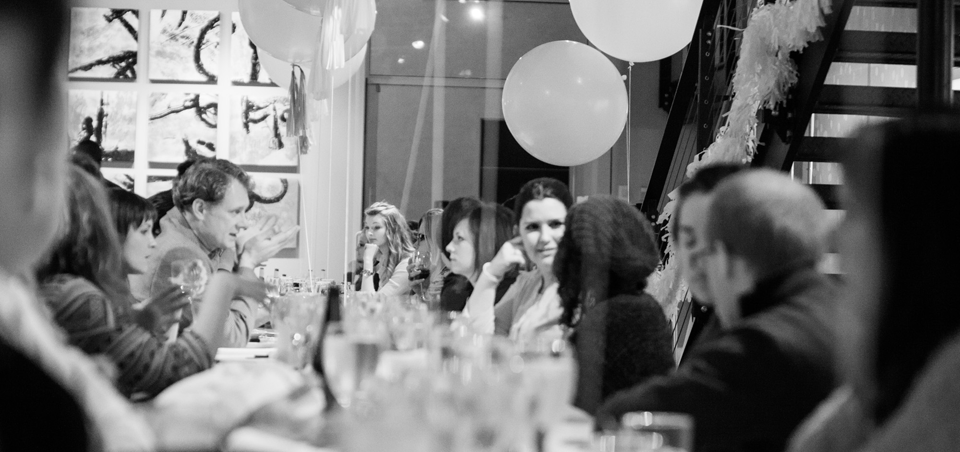
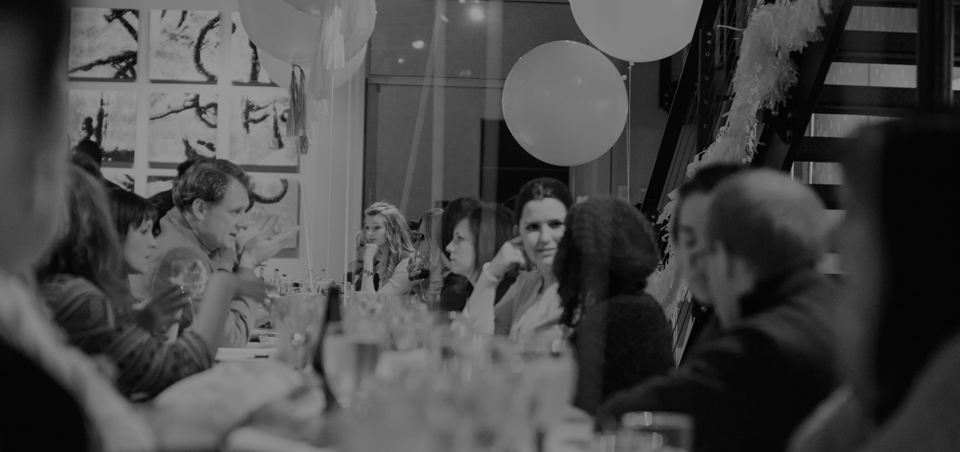
Tweaking final stuff, adding in the slideshow

diff --git a/styles/styles.css b/styles/styles.css
@@ -776,15 +776,18 @@ nav a:hover {
 
 
 .craft-header h1 {
-	font-size: 76px;
-	line-height: 1.0em;
-	padding: 37px;
+	font-size: 50px;
+	line-height: 1.2em;
+	padding: 65px;
+	padding-top: 56px;
 	margin: 0;
 	margin-right: 100%;
-	width: 50%;
-	color: #fff;
-	text-shadow: 0px 0px 12px rgba(0,0,0,0.3), 0px 1px 2px rgba(0,0,0,0.6);
+	width: 31%;
+	color: #FFFFFF;
 	display: inline-block;
+	font-family: "HelveticaNeue-Light", "Helvetica Neue Light", "Helvetica Neue", Helvetica, Arial, "Lucida Grande", sans-serif;
+	font-weight: lighter;
+
 }
 
 .craft-button {
@@ -847,22 +850,68 @@ nav a:hover {
 }*/
 
 .slideshow {
-	background: url(../images/slider/DSC_0178.jpg) #fff no-repeat;
-	height: 360px;
+	height: 450px;
 	display: inline-block;
+	position:relative; 
+	background-color: #fff;
 }
 
-.intro {
+.caption {
+	padding: 17px 38px;
+	text-align: center;
+}
+
+.fadein { 
+	width:360px; 
+	height:360px; 
+}
+
+.fadein img { 
+	-webkit-filter: grayscale(1);
+	position:absolute; 
+	left:0; 
+	top:0; 
+/*	-webkit-transition: all 0.3s ease;
+	   -moz-transition: all 0.3s ease;
+	    -ms-transition: all 0.3s ease;
+	     -o-transition: all 0.3s ease;
+	        transition: all 0.3s ease;*/
+}
+
+.fadein img:hover {
+	-webkit-filter: grayscale(0.5);
+	-webkit-transition: all 0.3s ease-in-out;
+	   -moz-transition: all 0.3s ease-in-out;
+	    -ms-transition: all 0.3s ease-in-out;
+	     -o-transition: all 0.3s ease-in-out;
+	        transition: all 0.3s ease-in-out;
+}
+
+
+.about .intro {
 	color: #4FC0A6;
 	font-size: 21px;
 	line-height: 1.4em;
-	padding: 0px 0 0 0;
+	padding: 65px;
 	font-weight: normal;
+}
+
+.about .intro a {
+	text-decoration: none;
+	color: #12705A;
+}
+
+.about .intro p {
+	color: #4FC0A6;
+	font-size: 16px;
+	line-height: 1.5em;
+	margin-bottom: 20px;
+	font-family: "Helvetica Neue", Helvetica, Arial, sans-serif;
+
 }
 
 .about {
 	background-color: #fff;
-	height: 814px;
 	display: inline-block;
 }
 
@@ -878,17 +927,15 @@ nav a:hover {
 }
 
 .about h1 {
+	color: #4F8A7C;
 	font-weight: bold;
-	font-size: 55px;
+	font-size: 30px;
 	line-height: normal;
-	color: #B98D14;
-	text-align: center;	
-	margin: 10px 0 -10px 0;
+	margin-bottom: 5px;
+	margin: 0;
 }
 
 .about h2 {
-	color: #B98D14;
-	text-align: center;	
 	font-size: 40px;
 	font-weight: lighter;
 	margin-bottom: 10px;
@@ -896,10 +943,6 @@ nav a:hover {
 
 .about p {
 	margin: 5px 0 0 0;
-	padding: 0 50px;
-	color: #92772C;
-/*	font-size: 14px;
-*/	text-align: center;
 	line-height: 1.4em;
 }
 
@@ -978,13 +1021,14 @@ nav a:hover {
 }
 
 .bottom {
-	height: 200px;
+	height: 160px;
 	width: 100%;
-	margin: 10px 0 0px 0;
+	margin: 40px 0 0px 0;
 	position: relative;
 }
 
 .bottom img {
+	display: inline-block;
 	position: absolute;
 	bottom: 0;
 	left: -3px;
@@ -992,13 +1036,35 @@ nav a:hover {
 
 .bottom a {
 	opacity: 1;
+	text-decoration: none;
+	display: inline-block;
+	color: #fff;
+	font-family: "Helvetica Neue", Helvetica, Arial, sans-serif;
 }
+
+.bottom a:hover {
+	opacity: 0.7; 
+}
+
+.bottom .contact {
+	display: inline-block;
+	margin-left: 350px; 
+	color: #E6CB5D;
+}
+
+/*.bottom .contact a {
+}*/
 
 footer {
 	bottom: 30px;
 	background-color: #fff;
 	height: 30px;
 	margin: 0;
+}
+
+footer p {
+	padding-top: 7px;
+	font-size: 12px;
 }
 
 .group:after {

diff --git a/craft-party.html b/craft-party.html
@@ -6,7 +6,7 @@
 	<style>
 		
 	</style>
-	
+	<script src="http://code.jquery.com/jquery-1.9.1.js"></script>
 	<link rel=stylesheet href="styles/styles.css">
 	
 </head>
@@ -39,10 +39,40 @@
 	    	<img src="images/slider/CRX Si.jpg" alt="Photo by: Mike Ranweiler Link: http://www.flickr.com/photos/27874907@N04/4833059991/">
 	    	<img src="images/slider/DSC_0178.jpg" alt="Photo by: Stuart SeegerLink: http://www.flickr.com/photos/stuseeger/97577796/">
 	    </div> -->
-		<div class="slideshow one box box-spacing"></div>
+		<div class="slideshow one box box-spacing">
+			<div class="fadein">
+				<img src="images/slider/indie1.jpg">
+				<img src="images/slider/indie2.jpg">
+				<img src="images/slider/indie3.jpg">
+				<img src="images/slider/indie4.jpg">
+				<img src="images/slider/indie5.jpg">
+				<img src="images/slider/indie6.jpg">
+				<img src="images/slider/indie7.jpg">
+			</div>
+			<div class="caption">
+				<p class="">Pictures from last years Craft Party, a one-day business conference for the art, craft, and design world. </p>
+			</div>
+		</div>
 
 		<div class="about two box box-spacing right">
-			
+			<div class="intro">
+				<h1>About this year's festival</h1>
+				<p>The party begins at 7:00 PM on March 1, and you don't have to attend the <a href="#">conference</a> to participate. The Best Craft Party Ever is a separate event designed simply to celebrate the fun of making and meeting other makers. You also don't have to be naturally crafty or artistically inclined to join us. We've designed the party so everyone&thinsp;&mdash;&thinsp;professional and newbie alike&thinsp;&mdash;&thinsp;can try their hand at something new.</p>
+
+				<p>This is the perfect time to learn something new or simply try your hand at a craft you've always wanted to make. Tickets are $50 per person (separate from the conference)  and include a complete dinner, craft supplies, access to letterpress and screen printing maker stations, plus the chance to make new friends who also love handmade.</p>
+
+				<!-- <p>7 - 8:30 pm   Dinner
+				A wonderful supper prepared and served by a local chef</p>
+
+				<p>8:30 -11:30 pm   Crafting
+				We'll have various projects on hand so that everyone can mingle and chat while making something too.</p>
+
+
+				<p>DIRECTIONS/MAP
+				The Certus Loft at the Huguenot Mill at the Peace Center
+				101 W. Broad Street
+				Greenville, SC 29601</p> -->
+			</div>
 		</div>
 
 		
@@ -72,7 +102,16 @@
 	
 	<footer class="group">
 	</footer>
-	
+	<script>
+		$(function(){
+		    $('.fadein img:gt(0)').hide();
+		    setInterval(function(){
+			      $('.fadein :first-child').fadeOut(1000)
+		         .next('img').fadeIn(1000)
+	         .end().appendTo('.fadein');}, 
+		      7000);
+		});
+	</script>
 
 </body>
 </html>

diff --git a/index.html b/index.html
@@ -188,7 +188,7 @@
 				</div>
 				<div class="workshops"> 
 					<img src="images/packaging.png" alt="">
-				 	<h3>Packaging Wokshop</h3>
+				 	<h3>Packaging</h3>
 				</div>
 				<div class="workshops"> 
 					<img src="images/website.png" alt="">
@@ -203,9 +203,9 @@
 			<div class="huguenot">
 			</div>
 
-			<a href="https://maps.google.com/maps?q=300+South+Main+St,+Greenville+SC&ie=UTF-8&ei=eRZ7UuXtKI2DkQeH64Fw&ved=0CAoQ_AUoAg" target="_blank">
+			<a href="https://maps.google.com/maps?q=101+W+Broad+St,+Greenville,+SC&hl=en&sll=34.846914,-82.400716&sspn=0.018385,0.021651&oq=101+w.+broad&hnear=101+W+Broad+St,+Greenville,+South+Carolina+29601&t=m&z=17" target="_blank">
 				<div class="address">
-					<p class="link">123 Broad St, Greenville, SC 29601</p>
+					<p class="link">101 W. Broad St, Greenville, SC 29601</p>
 					<img src="images/temp-google-icon.png" alt="">
 				</div>
 			</a>
@@ -252,11 +252,18 @@
 			<a href="http://indiecraftparade.com/" target="_blank">
 			<img src="images/madeforyou.png" alt="">
 			</a>
+			<div class="contact">
+				<h3>Contact Us</h3>
+				<a href="mailto:info@indiecraftparade.com">info@indiecraftparade.com</a>
+
+				
+			</div>
 		</div>
 
 	</div>
 	
 	<footer class="group">
+		<p class="container">Copyright &copy; <script language="JavaScript" type="text/javascript">document.write((new Date()).getFullYear());</script> Indie Craft Parade, a 501(c)4.</p>
 	</footer>
 
 </body>
